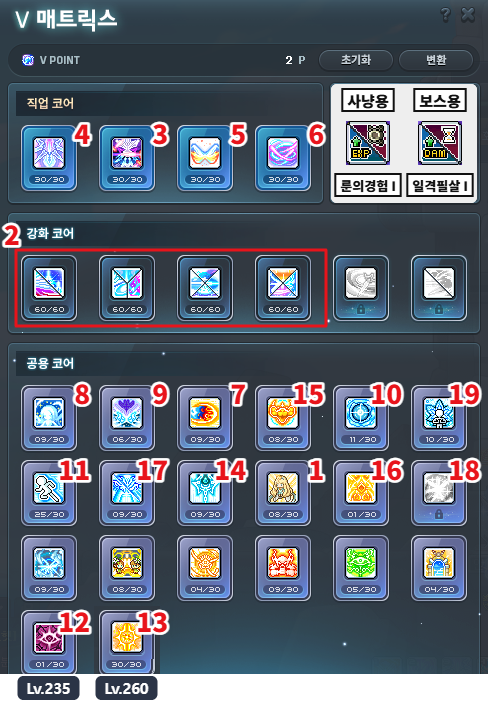
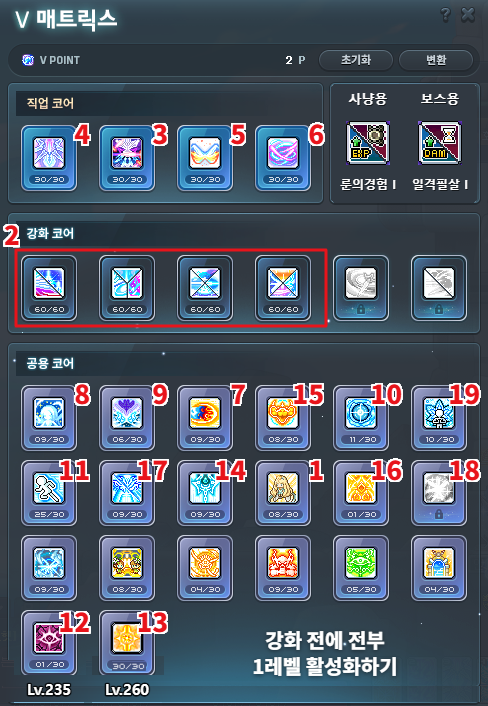
Add files via upload

Changed region(s): [[0.0, 0.0935, 1.0, 1.0]]

diff --git a/index.html b/index.html
@@ -472,7 +472,7 @@ input{font-family:inherit;}
         <sc-if value="{{ guideView }}" hint-placeholder-val="{{ true }}">
           <sc-if value="{{ s.hasVm }}" hint-placeholder-val="{{ false }}">
             <div style="display:flex;justify-content:center;margin-bottom:14px;">
-              <img src="{{ s.vmImg }}" alt="V매트릭스 코어 세팅" style="display:block;width:100%;max-width:488px;height:auto;border-radius:10px;">
+              <img src="vmatrix-adele.png" alt="V매트릭스 코어 세팅" style="display:block;width:100%;max-width:488px;height:auto;border-radius:10px;">
             </div>
           </sc-if>
           <sc-if value="{{ s.hasUnion }}" hint-placeholder-val="{{ false }}">
@@ -527,6 +527,49 @@ input{font-family:inherit;}
                     <sc-for list="{{ a.effects }}" as="e" hint-placeholder-count="3">
                       <span style="padding:6px 6px;border-radius:7px;background:oklch(0.95 0.025 255);font-size:clamp(13px,1.35vw,18px);font-weight:700;color:#2a2b2f;text-align:center;word-break:keep-all;">{{ e.t }}</span>
                     </sc-for>
+                  </div>
+                </div>
+              </sc-for>
+            </div>
+          </sc-if>
+          <sc-if value="{{ s.hasHexa }}" hint-placeholder-val="{{ false }}">
+            <div style="display:flex;flex-direction:column;gap:10px;margin-bottom:14px;">
+              <span style="font-size:13px;font-weight:600;color:#6b6d73;">왼쪽 위부터 순서대로 강화 · 숫자는 강화 후 레벨</span>
+              <sc-for list="{{ s.hexaImgs }}" as="im" hint-placeholder-count="2">
+                <img src="{{ im.src }}" alt="{{ im.alt }}" style="display:block;width:100%;height:auto;border-radius:10px;border:1px solid #e3e3e0;">
+              </sc-for>
+            </div>
+          </sc-if>
+          <sc-if value="{{ s.hasHs }}" hint-placeholder-val="{{ false }}">
+            <div style="display:flex;flex-direction:column;gap:16px;margin-bottom:14px;">
+              <span style="font-size:13px;font-weight:600;color:#6b6d73;">초록 칸은 이전 레벨보다 오른 스탯이에요</span>
+              <sc-for list="{{ s.hsSets }}" as="h" hint-placeholder-count="2">
+                <div style="border:1px solid #e3e3e0;border-radius:12px;overflow:hidden;">
+                  <div style="display:flex;align-items:baseline;gap:10px;padding:10px 14px;background:oklch(0.94 0.035 255);">
+                    <span style="font-size:18px;font-weight:800;color:oklch(0.3 0.09 255);">{{ h.name }}</span>
+                    <span style="font-size:14px;font-weight:700;color:oklch(0.45 0.1 255);">{{ h.range }}</span>
+                  </div>
+                  <div style="overflow-x:auto;">
+                    <table style="border-collapse:collapse;width:100%;min-width:640px;font-variant-numeric:tabular-nums;">
+                      <thead>
+                        <tr>
+                          <th style="position:sticky;left:0;background:#fafaf8;padding:9px 12px;text-align:left;font-size:13px;font-weight:700;color:#6b6d73;border-bottom:1px solid #e3e3e0;white-space:nowrap;">스탯</th>
+                          <sc-for list="{{ h.lvs }}" as="l" hint-placeholder-count="11">
+                            <th style="background:#fafaf8;padding:9px 6px;text-align:center;font-size:13px;font-weight:800;color:#3a3b3f;border-bottom:1px solid #e3e3e0;white-space:nowrap;">{{ l.t }}</th>
+                          </sc-for>
+                        </tr>
+                      </thead>
+                      <tbody>
+                        <sc-for list="{{ h.rows }}" as="r" hint-placeholder-count="8">
+                          <tr>
+                            <td style="position:sticky;left:0;background:#fff;padding:8px 12px;font-size:14px;font-weight:700;color:#3a3b3f;border-bottom:1px solid #f0f0ee;white-space:nowrap;">{{ r.name }}</td>
+                            <sc-for list="{{ r.cells }}" as="c" hint-placeholder-count="11">
+                              <td style="padding:8px 6px;text-align:center;font-size:17px;font-weight:800;color:{{ c.color }};background:{{ c.bg }};border-bottom:1px solid #f0f0ee;">{{ c.v }}</td>
+                            </sc-for>
+                          </tr>
+                        </sc-for>
+                      </tbody>
+                    </table>
                   </div>
                 </div>
               </sc-for>
@@ -1424,10 +1467,19 @@ const ABILITY = {
   ],
 };
 const VMATRIX = { '아델': 'vmatrix-adele.png' };
+const HEXA = { '아델': ['hexa-adele-1.png', 'hexa-adele-2.png'] };
+const HYPERSTAT = { '아델': [
+  { name: '보스용', lv: [260, 262, 264, 266, 268, 270, 272, 274, 276, 278, 280], rows: [
+    ['STR', [6, 6, 6, 6, 6, 6, 6, 6, 6, 6, 6]], ['DEX', [2, 2, 2, 3, 3, 3, 3, 3, 3, 3, 3]], ['크확', [0, 0, 0, 0, 0, 0, 0, 0, 0, 0, 0]], ['크뎀', [11, 11, 12, 12, 12, 12, 12, 12, 12, 12, 12]],
+    ['방무', [11, 11, 11, 11, 11, 11, 11, 11, 11, 11, 12]], ['데미지', [11, 11, 11, 11, 11, 12, 12, 12, 12, 12, 12]], ['보공', [13, 13, 13, 13, 13, 13, 13, 13, 14, 14, 14]], ['공마', [6, 6, 6, 7, 7, 7, 7, 7, 7, 7, 7]]] },
+  { name: '사냥용', lv: [260, 262, 264, 266, 268, 270, 272, 274, 276, 278, 280, 282], rows: [
+    ['STR', [3, 3, 4, 4, 4, 4, 4, 4, 4, 5, 5, 5]], ['DEX', [2, 2, 2, 2, 2, 2, 2, 2, 2, 2, 2, 2]], ['크확', [0, 0, 0, 0, 0, 0, 0, 0, 0, 0, 0, 0]], ['크뎀', [8, 8, 8, 9, 9, 9, 9, 9, 10, 10, 10, 10]],
+    ['방무', [2, 2, 2, 2, 2, 2, 2, 2, 2, 2, 2, 2]], ['데미지', [10, 11, 11, 11, 11, 11, 11, 12, 12, 12, 12, 12]], ['일몹 데미지', [11, 11, 11, 11, 11, 12, 12, 12, 12, 12, 12, 13]], ['공마', [4, 4, 5, 5, 5, 5, 5, 5, 5, 6, 6, 6]], ['획득 경험치', [15, 15, 15, 15, 15, 15, 15, 15, 15, 15, 15, 15]]] },
+] };
 const UNION_BASE = [['STR', 15, 15, '75'], ['DEX', 0, 15, '0'], ['INT', 0, 15, '0'], ['LUK', 0, 15, '0'], ['공격력', 15, 15, '15'], ['마력', 0, 15, '0'], ['최대 HP', 0, 15, '0'], ['최대 MP', 0, 15, '0']];
 const UNION = {
   '아델': [
-    { name: '보스용 유니온', server: '일반서버', pri: { 'STR': 4, '공격력': 5, '크리티컬 데미지': 1, '보스 데미지': 2, '방어율 무시': 3, '버프 지속 시간': 6 }, note: '크리티컬 확률은 부족한 만큼 채워주세요', base: UNION_BASE, extra: [['크리티컬 데미지', 40, 40, '20.00%'], ['보스 데미지', 40, 40, '40%'], ['방어율 무시', 40, 40, '40%'], ['크리티컬 확률', 0, 40, '0%'], ['버프 지속 시간', 16, 40, '16%'], ['일반몹 데미지', 0, 40, '0%'], ['획득 경험치', 0, 40, '0.0%'], ['상태 이상 내성', 0, 40, '0']] },
+    { name: '보스용 유니온', server: '일반서버', pri: { 'STR': 4, '공격력': 5, '크리티컬 데미지': 1, '보스 데미지': 2, '방어율 무시': 3, '버프 지속 시간': 6, 'DEX': 7 }, note: '크리티컬 확률은 부족한 만큼 채워주세요', base: UNION_BASE, extra: [['크리티컬 데미지', 40, 40, '20.00%'], ['보스 데미지', 40, 40, '40%'], ['방어율 무시', 40, 40, '40%'], ['크리티컬 확률', 0, 40, '0%'], ['버프 지속 시간', 16, 40, '16%'], ['일반몹 데미지', 0, 40, '0%'], ['획득 경험치', 0, 40, '0.0%'], ['상태 이상 내성', 0, 40, '0']] },
     { name: '사냥용 유니온', server: '일반서버', pri: { 'STR': 4, 'DEX': 7, '공격력': 5, '크리티컬 데미지': 3, '방어율 무시': 6, '일반몹 데미지': 2, '획득 경험치': 1 }, note: '크리티컬 확률은 부족한 만큼 채워주세요', base: UNION_BASE, extra: [['크리티컬 데미지', 40, 40, '20.00%'], ['보스 데미지', 0, 40, '0%'], ['방어율 무시', 16, 40, '16%'], ['크리티컬 확률', 0, 40, '0%'], ['버프 지속 시간', 0, 40, '0%'], ['일반몹 데미지', 40, 40, '40%'], ['획득 경험치', 40, 40, '10.0%'], ['상태 이상 내성', 0, 40, '0']] },
   ],
 };
@@ -1689,6 +1741,11 @@ class Component extends DCLogic {
         const item = typeof tpl === 'string' ? '하이퍼패시브' : { ...Object.fromEntries(Object.keys(tpl || {}).map(k => [k, typeof tpl[k] === 'string' ? '' : Array.isArray(tpl[k]) ? [] : tpl[k]])), title: '하이퍼패시브', ...(tpl && 'name' in tpl ? { name: '하이퍼패시브' } : {}), ...(tpl && 'id' in tpl ? { id: 'hp' + Date.now() } : {}) };
         g = { ...g, sections: [...g.sections.slice(0, i + 1), item, ...g.sections.slice(i + 1)] };
       }
+      if (!g.sections.some(x => nm(x) === '필수퀘스트')) {
+        const i = g.sections.findIndex(x => nm(x) === '펫버프'), tpl = g.sections[0];
+        const item = typeof tpl === 'string' ? '필수퀘스트' : { ...Object.fromEntries(Object.keys(tpl || {}).map(k => [k, typeof tpl[k] === 'string' ? '' : Array.isArray(tpl[k]) ? [] : tpl[k]])), title: '필수퀘스트', ...(tpl && 'name' in tpl ? { name: '필수퀘스트' } : {}), ...(tpl && 'id' in tpl ? { id: 'mq' + Date.now() } : {}) };
+        g = { ...g, sections: [...g.sections.slice(0, i + 1), item, ...g.sections.slice(i + 1)] };
+      }
     }
     return g;
   }
@@ -1757,9 +1814,13 @@ class Component extends DCLogic {
           return { name: u.name, server: u.server, note: u.note || '', hasNote: !!u.note, base: u.base.map(cell), extra: u.extra.map(cell) }; }) : [],
         hasArt: s.title === '아티팩트' && !!ARTIFACT[job],
         artCards: s.title === '아티팩트' && ARTIFACT[job] ? ARTIFACT[job].map((e, k) => ({ num: k + 1, img: 'url(artifact-' + (k + 1) + '.png?v=3)', effects: e.map(t => ({ t })) })) : [],
+        hasHexa: s.title === '헥사스킬' && !!HEXA[job], hexaImgs: s.title === '헥사스킬' && HEXA[job] ? HEXA[job].map((src, k) => ({ src, alt: '헥사스킬 강화 순서 ' + (k + 1) })) : [],
+        hasHs: s.title === '하이퍼스탯' && !!HYPERSTAT[job],
+        hsSets: s.title === '하이퍼스탯' && HYPERSTAT[job] ? HYPERSTAT[job].map(h => ({ name: h.name, range: h.lv[0] + '~' + h.lv[h.lv.length - 1] + 'Lv', lvs: h.lv.map(l => ({ t: l + 'Lv' })),
+          rows: h.rows.map(([n, v]) => ({ name: n, cells: v.map((x, k) => { const up = k > 0 && x > v[k - 1]; return { v: x, bg: up ? 'oklch(0.94 0.06 145)' : 'transparent', color: up ? 'oklch(0.4 0.14 150)' : x === 0 ? '#b5b6b9' : '#1c1d21' }; }) })) })) : [],
         hasAbil: s.title === '어빌리티' && !!ABILITY[job],
         abilSets: s.title === '어빌리티' && ABILITY[job] ? ABILITY[job].map(a => ({ name: a.name, lines: a.lines.map(([g, t]) => ({ text: t, grade: g === 'L' ? '레전드리' : '유니크', bg: g === 'L' ? 'oklch(0.95 0.06 145)' : 'oklch(0.96 0.07 85)', bd: g === 'L' ? 'oklch(0.72 0.17 145)' : 'oklch(0.8 0.16 80)', fg: g === 'L' ? 'oklch(0.4 0.13 145)' : 'oklch(0.45 0.12 70)' })) })) : [],
-        isEmpty: s.type !== 'video' && !String(s.text || '').trim() && !(s.title === '펫버프' && pb) && !(s.title === '링크' && lk && lk.boss) && !(s.title === '하이퍼패시브' && hpRows.length) && !(s.title === '유니온' && UNION[job]) && !(s.title === 'V매트릭스' && VMATRIX[job]) && !(s.title === '어빌리티' && ABILITY[job]) && !(s.title === '아티팩트' && ARTIFACT[job]), hasText: s.type !== 'video' && !!String(s.text || '').split('\n').filter(l => !yt(l.trim()) || l.trim().length > 120).join('').trim(), isVideo: s.type === 'video' || String(s.text || '').split('\n').some(l => yt(l.trim()) && l.trim().length <= 120), isText: s.type !== 'video',
+        isEmpty: s.type !== 'video' && !String(s.text || '').trim() && !(s.title === '펫버프' && pb) && !(s.title === '링크' && lk && lk.boss) && !(s.title === '하이퍼패시브' && hpRows.length) && !(s.title === '유니온' && UNION[job]) && !(s.title === 'V매트릭스' && VMATRIX[job]) && !(s.title === '어빌리티' && ABILITY[job]) && !(s.title === '하이퍼스탯' && HYPERSTAT[job]) && !(s.title === '헥사스킬' && HEXA[job]) && !(s.title === '아티팩트' && ARTIFACT[job]), hasText: s.type !== 'video' && !!String(s.text || '').split('\n').filter(l => !yt(l.trim()) || l.trim().length > 120).join('').trim(), isVideo: s.type === 'video' || String(s.text || '').split('\n').some(l => yt(l.trim()) && l.trim().length <= 120), isText: s.type !== 'video',
         onTitle: e => { const v = e.target.value; upd(n => { n.sections[i].title = v; }); },
         onText: e => { const v = e.target.value; upd(n => { n.sections[i].text = v; }); },
         videos: String(s.text || '').split('\n').filter(l => s.type === 'video' || l.trim().length <= 120).map(l => yt(l.trim())).filter(Boolean).map(src => ({ src })),
